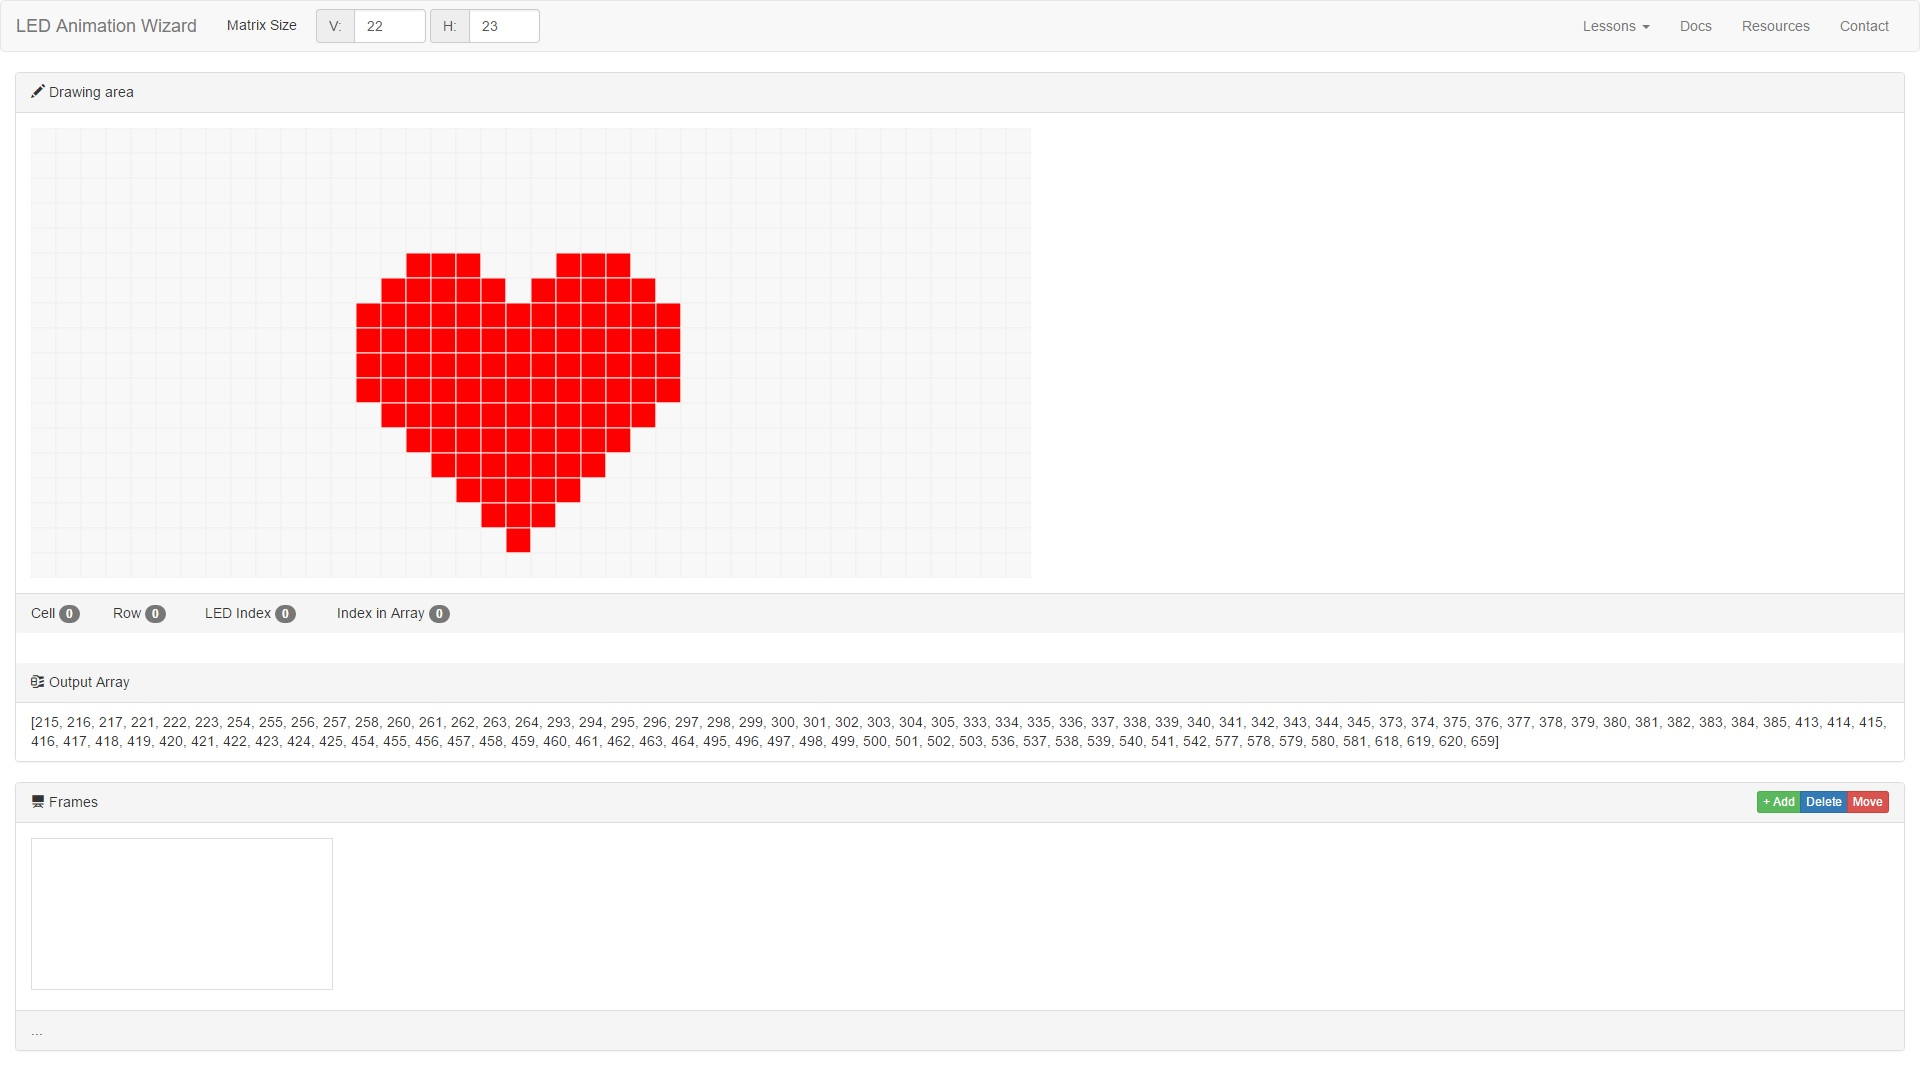
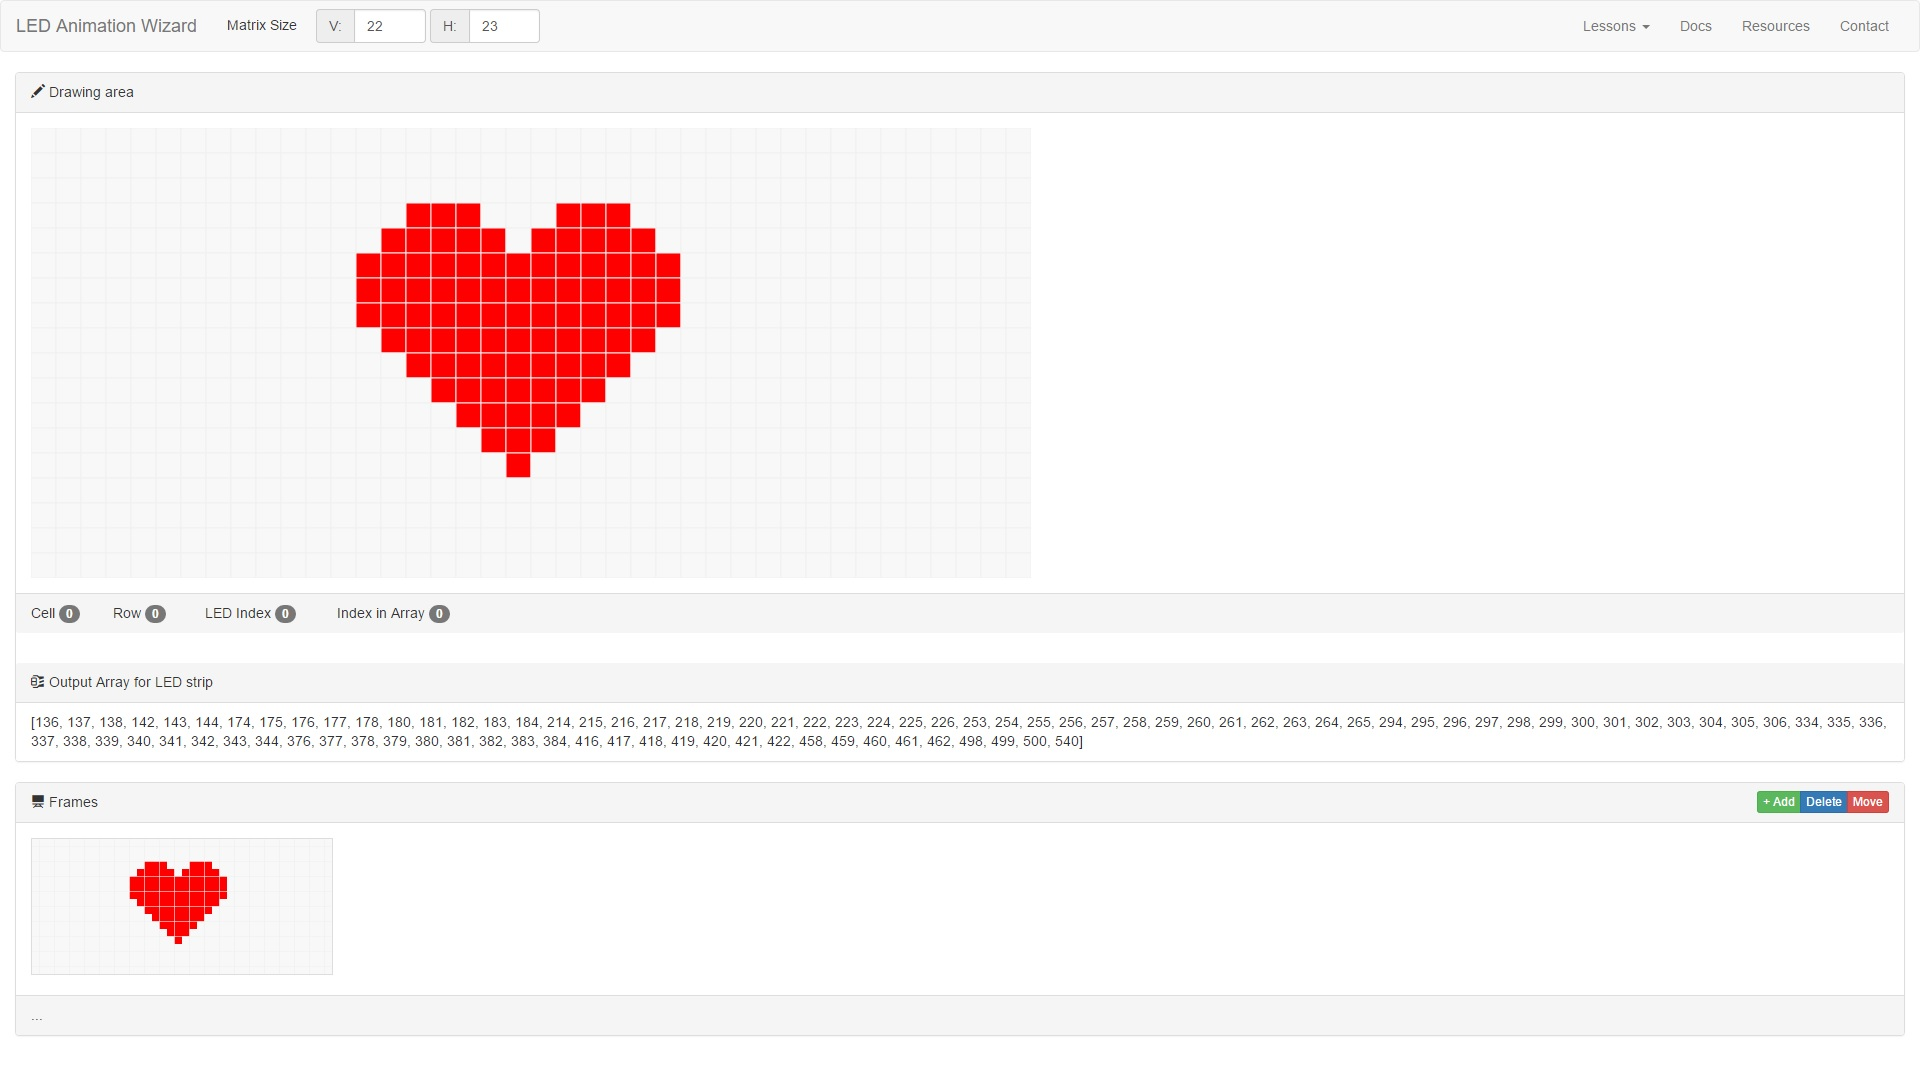
Generating frame's thumbnail.

diff --git a/src/app/components/frames/frames.directive.js b/src/app/components/frames/frames.directive.js
@@ -6,7 +6,7 @@ class FramesDirective {
         'ngInject';
 
         let postLink = function (scope, element, attr, frames) {
-
+            frames.registerWatchers();
         };
 
         let directive = {
@@ -16,7 +16,8 @@ class FramesDirective {
             controllerAs: 'frames',
             scope: {
                 selected: '@selected',
-                source: '=source'
+                source: '=source',
+                pixels: '=pixels'
             },
             link: postLink,
             bindToController: true
@@ -35,6 +36,7 @@ class FramesController {
         this.$log = $log;
         this.$element = $element[0];
         this.$timeout = $timeout;
+        this.$scope = $scope;
         this.Frame = Frame;
 
         this.constants = {
@@ -52,6 +54,26 @@ class FramesController {
         this.addFrame();
     }
 
+    registerWatchers() {
+        this._watchers = this._watchers || [];
+        var _self = this;
+
+        var watchers = [
+            {
+                model: 'frames.pixels',
+                type: '$watch',
+                listener: function(newValue, oldValue) {
+                    _self.applyPreview();
+                }
+            }
+        ];
+
+        watchers.forEach(watcher => {
+            _self._watchers.push(
+                _self.$scope[watcher.type](watcher.model, watcher.listener, true)
+            );
+        })
+    }
     addFrame() {
         var uniqueId = 'frame' + Date.now();
         this._frames = this._frames || [];

diff --git a/src/app/components/services/frame.factory.js b/src/app/components/services/frame.factory.js
@@ -31,6 +31,8 @@ export default class FrameFactory {
             this.addCanvas();
         };
 
+        Frame.prototype.maxWidth = 300;
+
         Frame.prototype.addCanvas = function() {
             var canvas = document.createElement('canvas');
             canvas.setAttribute('id', this.id);
@@ -39,9 +41,20 @@ export default class FrameFactory {
         };
 
         Frame.prototype.applyPreview = function(canvas) {
-            // TODO generate real thumbnail!!!
-            var element = this.holder.querySelector('canvas').getContext('2d');
-            element.drawImage(canvas, 0, 0);
+
+            var _canvas = this.holder.querySelector('canvas');
+            var element = _canvas.getContext('2d');
+            var originalWidth = canvas.width;
+            var originalHeight = canvas.height;
+
+            var newWidth = this.maxWidth;
+            var newHeight = originalHeight * newWidth / originalWidth;
+
+            _canvas.width = newWidth;
+            _canvas.height = newHeight;
+
+            element.drawImage(canvas, 0, 0, originalWidth, originalHeight, 0, 0, newWidth, newHeight);
+
         };
 
         Frame.prototype.getProfiler = function() {

diff --git a/src/app/components/drawer/drawer.directive.js b/src/app/components/drawer/drawer.directive.js
@@ -76,8 +76,8 @@ class DrawerController {
                 width: 0,
                 height: 0,
                 led: {
-                    width: 50,
-                    height: 50,
+                    width: 25,
+                    height: 25,
                     color: {
                         active: 'red',
                         empty: '#f8f8f8',

diff --git a/src/app/main/main.html b/src/app/main/main.html
@@ -25,8 +25,7 @@
       </ul>
     </div>
     <!-- drawer : ends here -->
-
-    <frames selected="0" source="canvas"></frames>
+    <frames selected="0" source="canvas" pixels="pixels || 'x'"></frames>
 
   </div>
 </section>
